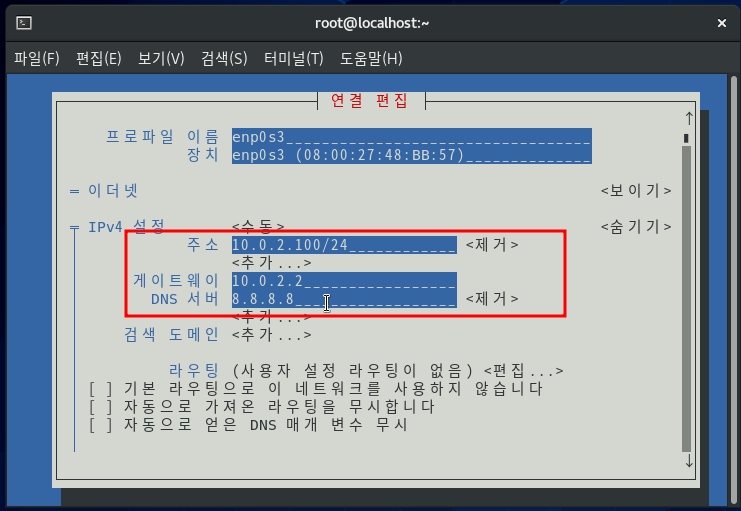
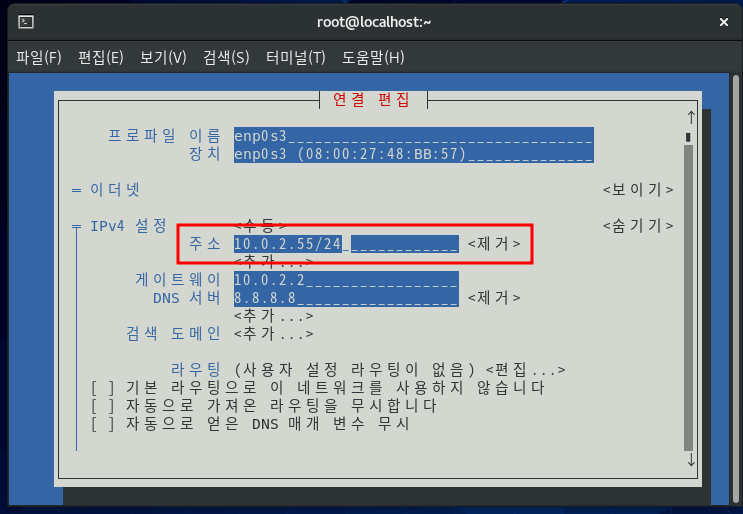
네트워크 관련 설정과 명령어 강의 작성

diff --git a/Linux1/9일차(3h) - 네트워크 관련 설정과 명령어/readme.md b/Linux1/9일차(3h) - 네트워크 관련 설정과 명령어/readme.md
@@ -181,3 +181,141 @@ nmtui 명령어 및 이와 관련된 설정 파일을 확인해보자.
 - <b>nmtui</b> 명령을 입력해서 IP 정보 등을 확인해보자.
 - 다음을 참고하여 설정했던 네트워크 정보를 확인해보자 (이제부터는 키보드의 [Tab] 또는 화살표키, [Enter]를 사용해야 한다)
 
+![image1](https://raw.githubusercontent.com/yonggyo1125/curriculumLinux/master/Linux1/9%EC%9D%BC%EC%B0%A8(3h)%20-%20%EB%84%A4%ED%8A%B8%EC%9B%8C%ED%81%AC%20%EA%B4%80%EB%A0%A8%20%EC%84%A4%EC%A0%95%EA%B3%BC%20%EB%AA%85%EB%A0%B9%EC%96%B4/images/image1.png)
+
+![image2](https://raw.githubusercontent.com/yonggyo1125/curriculumLinux/master/Linux1/9%EC%9D%BC%EC%B0%A8(3h)%20-%20%EB%84%A4%ED%8A%B8%EC%9B%8C%ED%81%AC%20%EA%B4%80%EB%A0%A8%20%EC%84%A4%EC%A0%95%EA%B3%BC%20%EB%AA%85%EB%A0%B9%EC%96%B4/images/image2.png)
+
+![image3](https://raw.githubusercontent.com/yonggyo1125/curriculumLinux/master/Linux1/9%EC%9D%BC%EC%B0%A8(3h)%20-%20%EB%84%A4%ED%8A%B8%EC%9B%8C%ED%81%AC%20%EA%B4%80%EB%A0%A8%20%EC%84%A4%EC%A0%95%EA%B3%BC%20%EB%AA%85%EB%A0%B9%EC%96%B4/images/image3.png)
+
+
+- 장치의 이름은 enp0s3 IP 주소는 10.0.2.100/24, 게이트웨이 주소는 10,0.2.2로 설정되어 있다. IP 주소 뒤에 24가 붙은 것은 서브넷 마스크가 255.255.255.0으로 설정된 것과 동일한 의미다.
+
+- 몇 가지를 수정하자. 주소를 10.0.2.55/24로 변경해보자. 그리고 모두 살펴봤으면 Tab을 여러 번 눌러 제일 아래 \<OK\>로 이동한 후 [Enter]를 누른다([Shift] + [Tab])을 누르면 반대 방향으로 이동한다.
+
+
+![image4](https://raw.githubusercontent.com/yonggyo1125/curriculumLinux/master/Linux1/9%EC%9D%BC%EC%B0%A8(3h)%20-%20%EB%84%A4%ED%8A%B8%EC%9B%8C%ED%81%AC%20%EA%B4%80%EB%A0%A8%20%EC%84%A4%EC%A0%95%EA%B3%BC%20%EB%AA%85%EB%A0%B9%EC%96%B4/images/image4.png)
+
+![image5](https://raw.githubusercontent.com/yonggyo1125/curriculumLinux/master/Linux1/9%EC%9D%BC%EC%B0%A8(3h)%20-%20%EB%84%A4%ED%8A%B8%EC%9B%8C%ED%81%AC%20%EA%B4%80%EB%A0%A8%20%EC%84%A4%EC%A0%95%EA%B3%BC%20%EB%AA%85%EB%A0%B9%EC%96%B4/images/image5.png)
+
+#### step2
+
+관련 파일을 확인해보자.
+
+- <b>cat /etc/sysconfig/network</b> 명령을 입력해 network 파일의 내용을 확인하자. 아무것도 안 써져 있거나 'NETWORKING=YES'라고 된 것은 네트워크를 사용하겠다는 의미다 (#은 주석이다).
+
+![image6](https://raw.githubusercontent.com/yonggyo1125/curriculumLinux/master/Linux1/9%EC%9D%BC%EC%B0%A8(3h)%20-%20%EB%84%A4%ED%8A%B8%EC%9B%8C%ED%81%AC%20%EA%B4%80%EB%A0%A8%20%EC%84%A4%EC%A0%95%EA%B3%BC%20%EB%AA%85%EB%A0%B9%EC%96%B4/images/image6.png)
+
+- 이번에는 <b>cat /etc/sysconfig/network-scripts/ifcfg-enp0s3</b> 명령을 입력해 ifcfg-enp0s3 파일을 확인한다.
+
+![image7](https://raw.githubusercontent.com/yonggyo1125/curriculumLinux/master/Linux1/9%EC%9D%BC%EC%B0%A8(3h)%20-%20%EB%84%A4%ED%8A%B8%EC%9B%8C%ED%81%AC%20%EA%B4%80%EB%A0%A8%20%EC%84%A4%EC%A0%95%EA%B3%BC%20%EB%AA%85%EB%A0%B9%EC%96%B4/images/image7.png)
+
+> UUID(Universal Unique IDentifier)는 개체에 부여하는 128bit로 구성된 고유한 번호며, 네트워크상에서 유일한 장치(또는 개체)로 구분하기 위한 식별자로 사용된다. 앞으로 다른 부분에서도 나올 수 있는데 특별히 신경 쓰지 않아도 된다.
+
+- <b>nmtui</b> 명령을 실행해서 확인했던 정보의 대부분이 이 파일에 들어 있다. IP 주소는 IPADDR(또는 IPADDR0) 부분에 기본 게이트웨이는 GATEWAY (또는 GATEWAY0) 부분에, DNS 서버는 DNS1 (또는 DNS2) 부분에 들어 있는 것을 확인할 수 있다. 만약 NETMASK 부분이 생략되었다면 기본적으로 255.255.255.0이라는 것을 의미한다.
+
+- 앞서 실습에서는 이 파일을 직접 편집했었다. 즉 <b>nmtui</b> 명령을 사용하지 않고 지금 열어본 "/etc/sysconfig/network-scripts/ifcfg-enp0s3" 파일을 직접 편집해도 똑같은 결과를 얻을 수 있다.
+- 만약 파일을 수정했거나 <b>nmtui</b>로 내용을 수정했다면 <b>systemctl restart NetworkManager</b> 명령을 입력해야 변경한 내용이 적용된다. <b>systemctl restart NetworkManager</b> 명령을 실행하자.
+
+#### ifconfig 명령과 route 명령
+
+- 네트워크 정보를 설정하기 위해 <b>nmtui</b> 명령어나 에디터에서 직접 설정하는 방법 외에 ifconfig나 route 명령어로 설정할 수도 있다. root 사용자 권한으로 다음 명령을 차례로 실행하면 된다.
+
+```
+ifconfig enp0s3 10.0.2.100 netmask 255.255.255.0 broadcast 10.0.2.255 up
+route add -net 10.0.2.0 netmask 255.255.255.0 enp0s3
+route add default gw 10.0.2.2 dev enp0s3
+```
+
+- DNS 서버가 설정된 파일은 "/etc/resolv.conf"다. <b>vi /etc/resolv.conf</b> 명령을 입력해 resolv.conf 파일에 DNS 서버를 추가로 입력해보자. 
+- 마지막 행에 'nameserver 168.126.63.1'을 추가하면 된다 (vi 에디터 사용이 아직 어렵다면 gedit을 사용한다). 
+- 이렇게 하면 처음에 나온 DNS 서버 (=네임 서버)인 8.8.8.8이 작동하지 않더라도 두 번째 DNS 서버인 168.126.63.1 을 사용하게 된다. 
+- 저장하고 에디터를 종료하자.
+
+![image8](https://raw.githubusercontent.com/yonggyo1125/curriculumLinux/master/Linux1/9%EC%9D%BC%EC%B0%A8(3h)%20-%20%EB%84%A4%ED%8A%B8%EC%9B%8C%ED%81%AC%20%EA%B4%80%EB%A0%A8%20%EC%84%A4%EC%A0%95%EA%B3%BC%20%EB%AA%85%EB%A0%B9%EC%96%B4/images/image8.png)
+
+> 168.126.63.1과 168.126.63.2는 KT(한국 통신)에서 제공하는 DNS 서버(네임 서버)다. 전 세계 어디서든 이 주소를 사용해도 된다. 앞으로도 자주 사용되는 주소이므로 168.126.63.1 정도는 외우자. 이 외에도 SK 브로드밴드의219.250.36.130과 210.220.163.82, LG 유플러스의 164.126.101.2와 203.248.252.2를 사용해도 된다.
+
+- 주의할 점은 systemctl restart NetworkManager 명령 후 다시 ifcfg-enp0s3 파일에 설정된 내용으로 변경된다는 것이다. 그러므로 영구적으로 DNS 설정을 변경하고 싶다면 <b>nmtui</b> 명령으로 DNS를 변경하거나 직접 ifcfg-enp0s3 파일을 편집해야 한다.
+
+![image9](https://raw.githubusercontent.com/yonggyo1125/curriculumLinux/master/Linux1/9%EC%9D%BC%EC%B0%A8(3h)%20-%20%EB%84%A4%ED%8A%B8%EC%9B%8C%ED%81%AC%20%EA%B4%80%EB%A0%A8%20%EC%84%A4%EC%A0%95%EA%B3%BC%20%EB%AA%85%EB%A0%B9%EC%96%B4/images/image9.png)
+
+#### step3
+
+- 이번에는 인터넷이 안 될 경우 DNS 서버 고장 때문인지 아니면 다른 문제 때문인지 확인해본다. DNS 서버를 직접 구축한 후 잘 작동하는지 테스트할 때도 사용하는 방법이다.
+
+
+- 바탕 화면 왼쪽 위에 있는 [현재 활동] →[Firefox 웹 브라우저]를 선택한 후 www.nate.com에 접속해보자. 별 문제가 없다면 정상적으로 접속될 것이다.
+
+- 이번에는 DNS 서버에 문제를 발생시키자. vi 에디터나 gedit으로 /etc/resolv.conf 파일을 열어서 8.8.8.8을 100.100.100,100으로 고친 후 저장하고 닫는다 (DNS 서버가 고장난 것이든 /etc/resolv.conf 파일의 IP 주소를 잘못 입력한 것이든 어차피 DNS 서버가 응답하지 않는 것은 마찬가지다).
+
+![image10](https://raw.githubusercontent.com/yonggyo1125/curriculumLinux/master/Linux1/9%EC%9D%BC%EC%B0%A8(3h)%20-%20%EB%84%A4%ED%8A%B8%EC%9B%8C%ED%81%AC%20%EA%B4%80%EB%A0%A8%20%EC%84%A4%EC%A0%95%EA%B3%BC%20%EB%AA%85%EB%A0%B9%EC%96%B4/images/image10.png)
+
+- 웹 브라우저를 닫고 다시 실행한 후 www.nate.com에 다시 들어가보자. 한참을 기다려도 접속이 안될 것이다. 그런데 이렇게 인터넷이 안 될 경우 DNS 서버 문제 때문인지, IP 설정이 잘못됐기 때문인지 바로 알기가 어렵다. 여기서는 DNS 서버가 원인을 발생시킨 것인지 파악해본다
+
+![image11](https://raw.githubusercontent.com/yonggyo1125/curriculumLinux/master/Linux1/9%EC%9D%BC%EC%B0%A8(3h)%20-%20%EB%84%A4%ED%8A%B8%EC%9B%8C%ED%81%AC%20%EA%B4%80%EB%A0%A8%20%EC%84%A4%EC%A0%95%EA%B3%BC%20%EB%AA%85%EB%A0%B9%EC%96%B4/images/image11.png)
+
+#### step4
+
+우선 /etc/resolv.conf 파일에 설정된 DNS 서버 주소(100,100.100.100) 외에 다른 DNS 서버의 주소를알아야 한다. 가장 일반적으로 사용되는 DNS 서버 주소인 KT의 168.126.63.1 또는 Google의 8.8.8.8을사용하자.
+
+- 터미널에서 <b>nslookup</b> 명령을 입력하면 프롬프트가 \>로 바뀐다. <b>server</b> 명령을 입력해서 나오는 결과가 현재 Server에 설정된 DNS 서버 주소다.
+
+![image12](https://raw.githubusercontent.com/yonggyo1125/curriculumLinux/master/Linux1/9%EC%9D%BC%EC%B0%A8(3h)%20-%20%EB%84%A4%ED%8A%B8%EC%9B%8C%ED%81%AC%20%EA%B4%80%EB%A0%A8%20%EC%84%A4%EC%A0%95%EA%B3%BC%20%EB%AA%85%EB%A0%B9%EC%96%B4/images/image12.png)
+
+- 예상했겠지만 기본으로 설정된 DNS 서버 주소는 /etc/resolv.conf 파일에 설정된 잘못된 주소인100.100.100.100이 된다.
+
+- www.nate.com을 입력하자. 잠시 후 다음과 같은 오류 메시지가 나온다. 현재 설정된 DNS서버 주소(100,100.100.100)가 응답하지 않기 때문이다.
+
+![image13](https://raw.githubusercontent.com/yonggyo1125/curriculumLinux/master/Linux1/9%EC%9D%BC%EC%B0%A8(3h)%20-%20%EB%84%A4%ED%8A%B8%EC%9B%8C%ED%81%AC%20%EA%B4%80%EB%A0%A8%20%EC%84%A4%EC%A0%95%EA%B3%BC%20%EB%AA%85%EB%A0%B9%EC%96%B4/images/image13.png)
+
+-  server 새로운DNS서버IP주소 명령을 입력해 DNS 서버 주소를 변경하고 다시 www.nate.com을 입력해보자. 새로운 DNS 서버 주소는 확실히 작동하는 KT의 168.126.63.1을 사용한다.
+
+![image14](https://raw.githubusercontent.com/yonggyo1125/curriculumLinux/master/Linux1/9%EC%9D%BC%EC%B0%A8(3h)%20-%20%EB%84%A4%ED%8A%B8%EC%9B%8C%ED%81%AC%20%EA%B4%80%EB%A0%A8%20%EC%84%A4%EC%A0%95%EA%B3%BC%20%EB%AA%85%EB%A0%B9%EC%96%B4/images/image14.png)
+
+- 이와 같이 <b>nslookup</b> 명령을 사용해 DNS 서버 주소를 변경한 후 네트워크가 잘 응답한다면 /etc/resolv.conf 파일에 설정된 DNS 서버에 문제가 있는 것이며, 그 외 네트워크 설정에는 문제가 없는 것이다. <b>exit</b> 명령을 입력해서 nslookup을 종료한다.
+
+> www.nate.com의 경우 IP 주소 1개에만 연결되어 있으나, 웹 사이트에 따라서는 여러 개의 IP 주소에 URL이 연결되어 있을 수도 있다. 이는 라운드 로빈 방식과 관련이 있는데 뒤에서 살펴본다.
+ 
+- 이제 방금 정상 작동을 확인한 KT의 168.126.63.1(또는 Goggle의 8.8.8.8)을 vi 에디터나 gedit으로 /etc/resolv.conf 파일에 입력한 후 저장한다.
+
+![image15](https://raw.githubusercontent.com/yonggyo1125/curriculumLinux/master/Linux1/9%EC%9D%BC%EC%B0%A8(3h)%20-%20%EB%84%A4%ED%8A%B8%EC%9B%8C%ED%81%AC%20%EA%B4%80%EB%A0%A8%20%EC%84%A4%EC%A0%95%EA%B3%BC%20%EB%AA%85%EB%A0%B9%EC%96%B4/images/image15.png)
+
+- 웹 브라우저를 닫고 다시 실행해서 웹 접속이 정상적으로 되는지 확인한다.
+
+
+#### DNS 서버 역할
+
+- DNS 서버의 역할은 URL 이름을 IP 주소로 변경하는 것이다. 예를 들어 웹 브라우저에서 https://www.nate.com 을 입력하면 바로 네이트 홈페이지로 접속되는 것이 아니라 /etc/resolv.conf 파일에 설정된 DNS 서버에게 www.nate.com URL의 IP 주소를 물어본다. DNS 서버가 해당 URL에 해당하는 IP 주소를 알려주면 그때서야 비로소 알아낸 IP 주소의 컴퓨터로 접속하는 것이다(아마도 이 IP 주소가 네이트 웹 서버 IP 주소일 것이다).
+
+- 이러한 과정을 거치는 이유는 네트워크상에 있는 컴퓨터를 구분할 때 www.nate.com과 같은 URL이 아닌 IP 주소가 중복되지 않는 유일한 식별자이기 때문이다.
+
+- 개념이 조금 어려울 수도 있겠으나 더 상세한 내용은 [네임 서버](https://github.com/yonggyo1125/curriculumLinux/tree/master/Linux2/2~3%EC%9D%BC%EC%B0%A8(6h)%20-%20%20%EB%84%A4%EC%9E%84%20%EC%84%9C%EB%B2%84) 에서 설명한다. 
+- 결론적으로 DNS 서버가 고장난 경우 www.nate.com같은 URL을 사용해서는 웹 서버에 접속할 수 없다는 사실을 기억하자.
+
+#### /etc/resolv.conf 파일
+
+- IP 주소 게이트웨이 주소 등의 정보를 변경한 후에는 <b>systemctl restart NetworkManager</b> 명령을 실행해야 시스템에 적용되지만 /etc/resolv.conf 의 nameserver 부분을 수정한 후에는 <b>systemctl restart NetworkManager</b> 명령을 실행할 필요가 없다. <b>그 이유는 웹 브라우저 또는 nslookup 명령을 사용해 URL을 조회할 경우 실시간으로 /etc/resolv.conf 파일을 열어서 확인하기 때문이다.</b>
+
+## 네트워크 보안을 위한 SELinux
+
+- SELinuxSecunty Enhanced Linux는 보안에 취약한 리눅스를 보호하기 위해 탄생했다. 시스템에서 보안에 영향을 미치는 서비스, 권한 등을 제어할 수 있다.
+
+- SELinux 환경에서는 해커가 어떤 경로로 시스템 침입에 성공하든, 침입한 경로의 애플리케이션 사용 이상의 권한을 얻지 못한다. 예를 들어 FTP 서버의 경로로 침입할 경우 FTP와 관련된 디렉터리나 파일 외에는 다른 서버에 접근할 수 없으므로 해킹에 대한 피해를 FTP 서버만으로 제한할 수 있다. 즉 만약의 사태가 발생해도 피해를 최소화할 수 있다.
+
+- SELinux의 사용 여부는 강제(enforcing), 허용(permissive), 비활성(disabled) 이라는 3가지 레벨 중 선택할 수 있으며, 설정 파일은 /etc/sysconfig/selinux 파일이다. CentOS 8을 설치하면 강제 (enforcing) 기본 설정되어 있다.
+
+
+- 우리는 앞서 설정에서 Server, Server(B)의 SELinux 기능을 비활성disabled으로 변경했다. 이는 SELinux 사용 시 추후 네트워크 서비스가 원활하지 않을 수 있기 때문에, 먼저 CentOS 리눅스를 잘 배우고 나서 보안을 고려하려고 설정한 것이다. 여기서도 알 수 있듯이 보안을 강화하면 여러 가지 불편한 점이 발생할 수 있고, 반대로 보안을 약화하면 편리해지지만 위험이 따를 수 있다. /etc/sysconfig/selinux 를 직접 편집하지 않고 <b>system-config-selinux</b> 명령을 실행하여 설정할 수도 있다.
+
+> system-config-selinux 명령을 사용하려면 먼저 policycoreutils-gui 패키지를 설치해야 한다.
+
+
+![image16](https://raw.githubusercontent.com/yonggyo1125/curriculumLinux/master/Linux1/9%EC%9D%BC%EC%B0%A8(3h)%20-%20%EB%84%A4%ED%8A%B8%EC%9B%8C%ED%81%AC%20%EA%B4%80%EB%A0%A8%20%EC%84%A4%EC%A0%95%EA%B3%BC%20%EB%AA%85%EB%A0%B9%EC%96%B4/images/image16.png)
+
+- 먼저 가장 강력한 강제(enforcing)를 살펴보자. 강제는 시스템 보안에 영향을 미치는 기능이 감지되면아예 그 기능이 작동되지 않도록 시스템에서 막는다. 
+- 허용(permissive)은 시스템 보안에 영향을 미치는 기능이 감지되면 허용은 하되 사용 내용이 로그에 남고 화면상에도 출력된다. 
+- 비활성화(disabled)는SELinux를 사용하지 않는 것이어서 당연히 보안에 취약해진다.
+
+- 설정을 변경한 후에는 컴퓨터를 재부팅해야 한다. 하지만 추후 실무에서 보안이 강화된 서비스를 제공하려면 잘 알아둘 필요가있으므로 man 페이지나 다른 관련 사이트, 보안 관련 서적 등을 참조하자.
+
+- 비록 실습에서는 SELinux를 비활성(disabled)으로 설정해놓았지만 실무에서는 귀찮더라도 최소 허용(permissive)이나 강제(enforcing)로 설정해서 사용하는 것이 바람직하다.
